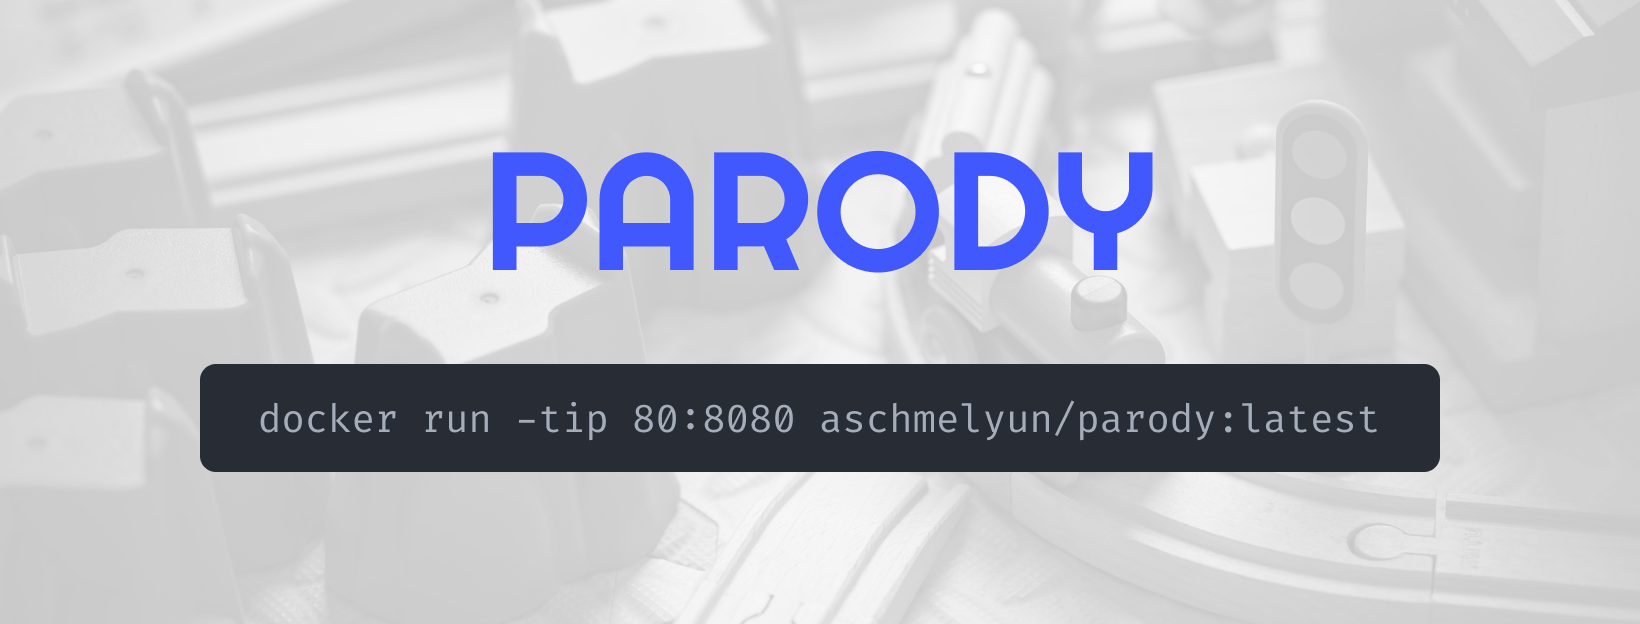
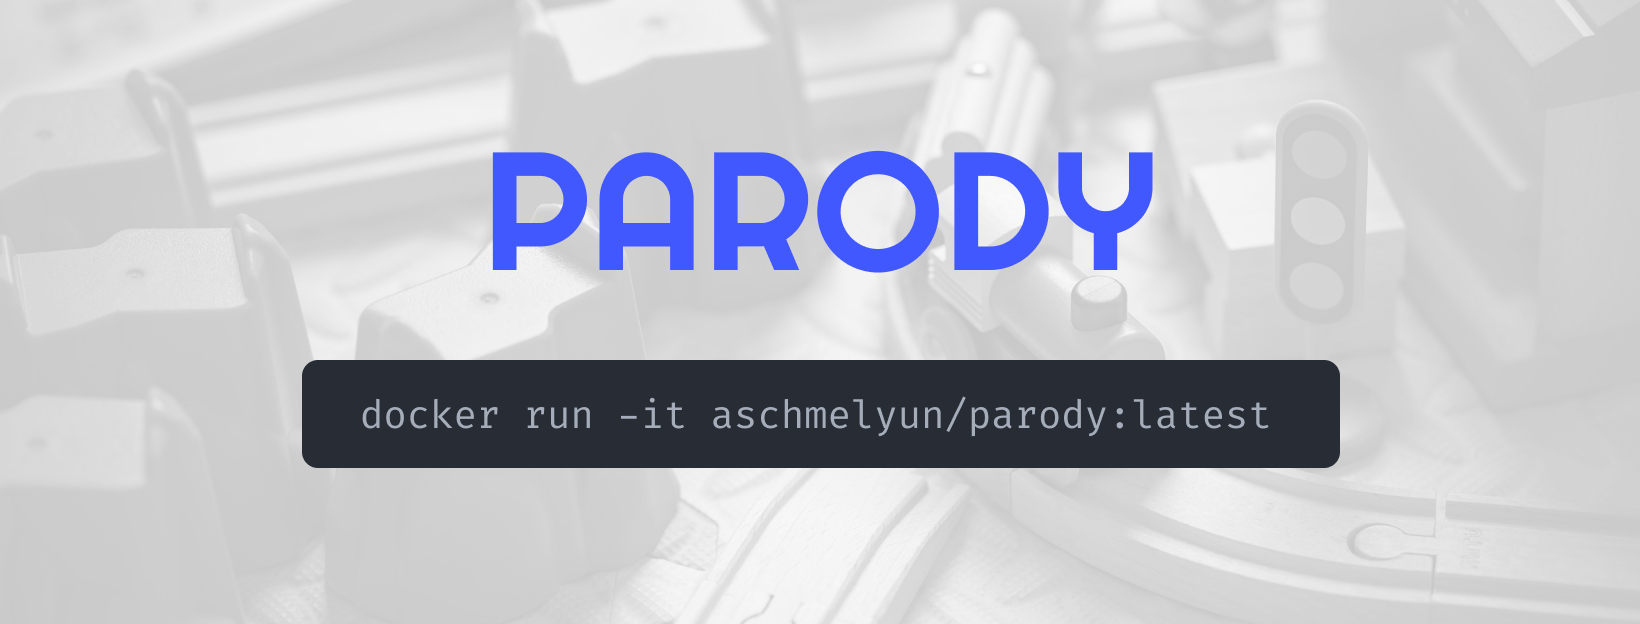
Removes necessary port mapping for :8080, automatic :80 by default

Changed region(s): [[0.1244, 0.5785, 0.9018, 0.7612]]

diff --git a/README.md b/README.md
@@ -1,4 +1,4 @@
-![A cover image for the Parody package containing the command docker run -tip 80:8080 aschmelyun/parody:latest](/images/cover.png)
+![A cover image for the Parody package containing the command docker run -it aschmelyun/parody:latest](/images/cover.png)
 
 # Parody
 
@@ -11,7 +11,7 @@ The only requirement needed for Parody is Docker. Follow [these instructions](ht
 After that, running the following command will create a basic test API at [localhost](http://localhost):
 
 ```bash
-docker run -tip 80:8080 aschmelyun/parody:latest
+docker run -it aschmelyun/parody:latest
 ```
 
 The output of the server will be streamed to your console. You can prevent this by using the `-d` flag in the above command, and using `ctrl+c` will stop the container and bring down your API.
